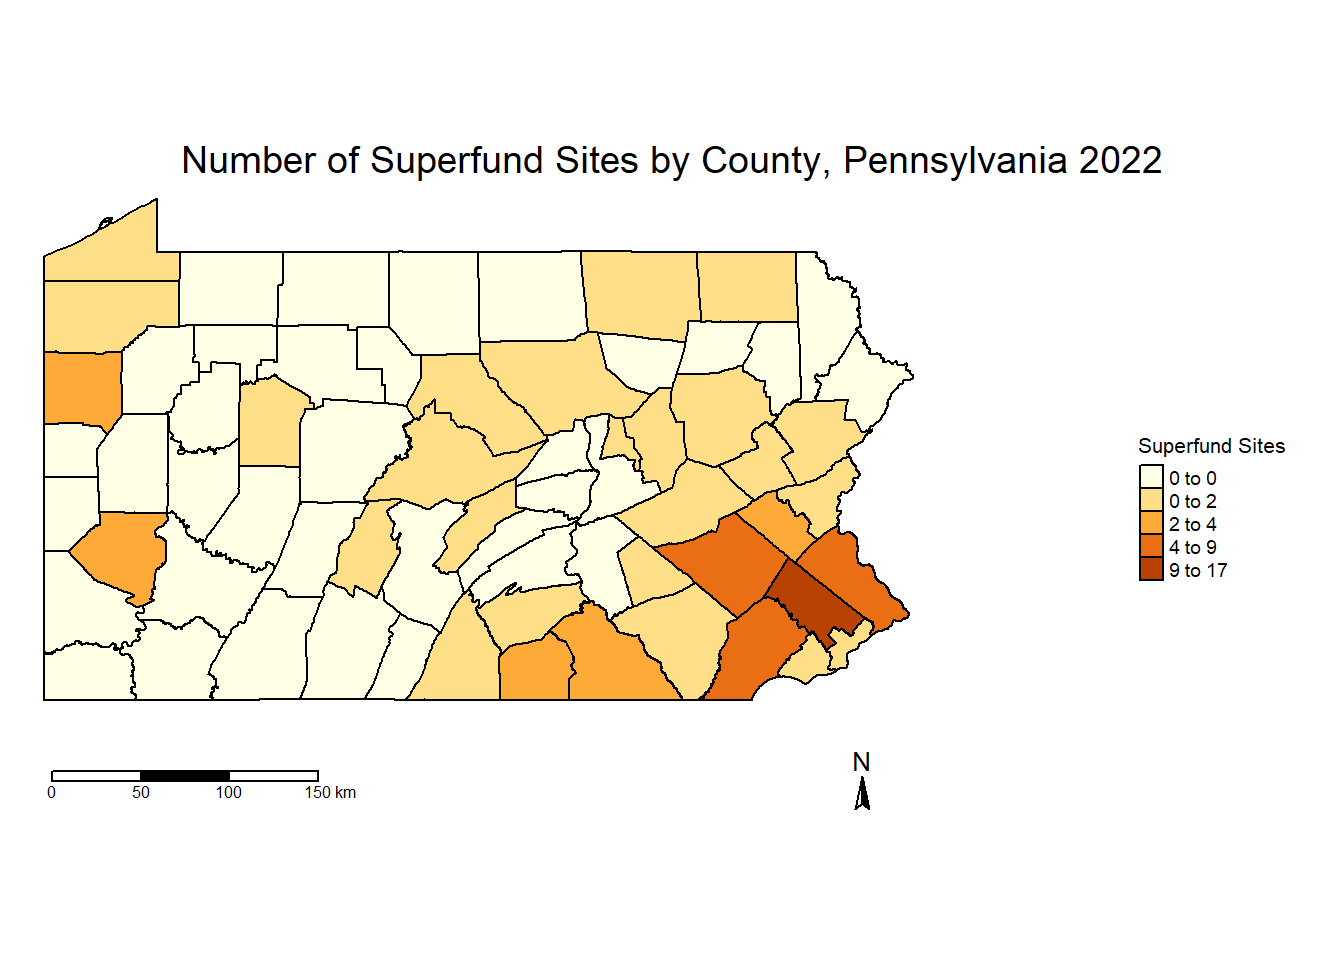
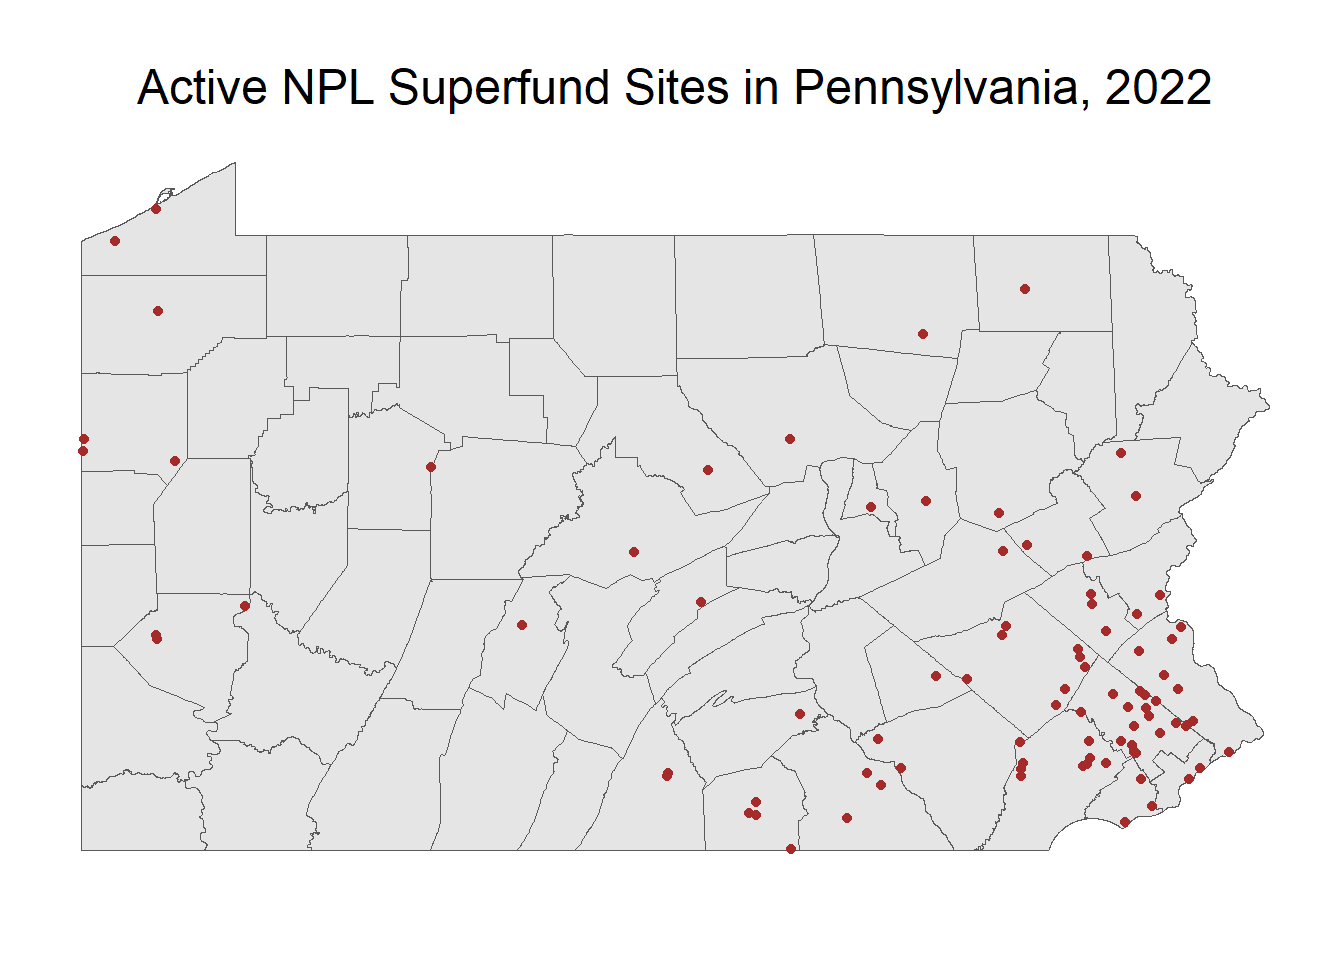
-corrected data set

diff --git a/data_cleaning.html b/data_cleaning.html
@@ -256,7 +256,13 @@ $(document).ready(function () {
       </ul>
       <ul class="nav navbar-nav navbar-right">
         <li>
-  <a href="data_cleaning.html">Data Cleaning</a>
+  <a href="Exploratory_Analysis.html">Exploratory Analysis</a>
+</li>
+<li>
+  <a href="asthma_regression.html">Asthma Regression</a>
+</li>
+<li>
+  <a href="cancer_regression.html">Cancer Regression</a>
 </li>
 <li>
   <a href="mailto:&lt;rh3064@cumc.columbia.edu&gt;">
@@ -286,7 +292,23 @@ $(document).ready(function () {
 
 
 <p><img src="data_cleaning_files/figure-html/unnamed-chunk-6-1.png" width="672" /></p>
-<p><img src="data_cleaning_files/figure-html/unnamed-chunk-7-1.png" width="672" /></p>
+<pre class="r"><code># ggplotly(
+# ggplot() +
+#   geom_sf(data = pa_combined, lwd = 1) +
+#    theme(axis.text.x = element_blank(),
+#         axis.text.y = element_blank(),
+#         axis.ticks = element_blank(),
+#         rect = element_blank()) +
+#   ggtitle(&quot;Active NPL Superfund Sites in Pennsylvania, 2022&quot;) +
+#   theme(plot.title = element_text(hjust = 0.5, size = 18)) +
+#   geom_polygon(col = &quot;n_superfund&quot;,
+#               style = &quot;jenks&quot;,
+#               n = 5,
+#               palette = &quot;YlOrBr&quot;,
+#               border.col = &quot;black&quot;,
+#               title = &quot;Superfund Sites&quot;) 
+# )</code></pre>
+<p><img src="data_cleaning_files/figure-html/unnamed-chunk-9-1.png" width="672" /></p>
 
 
 
